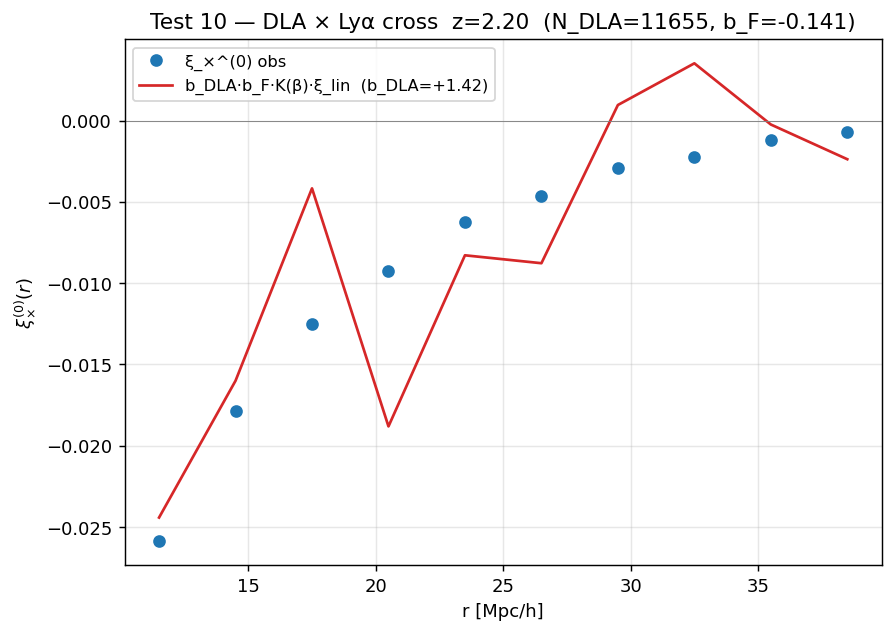
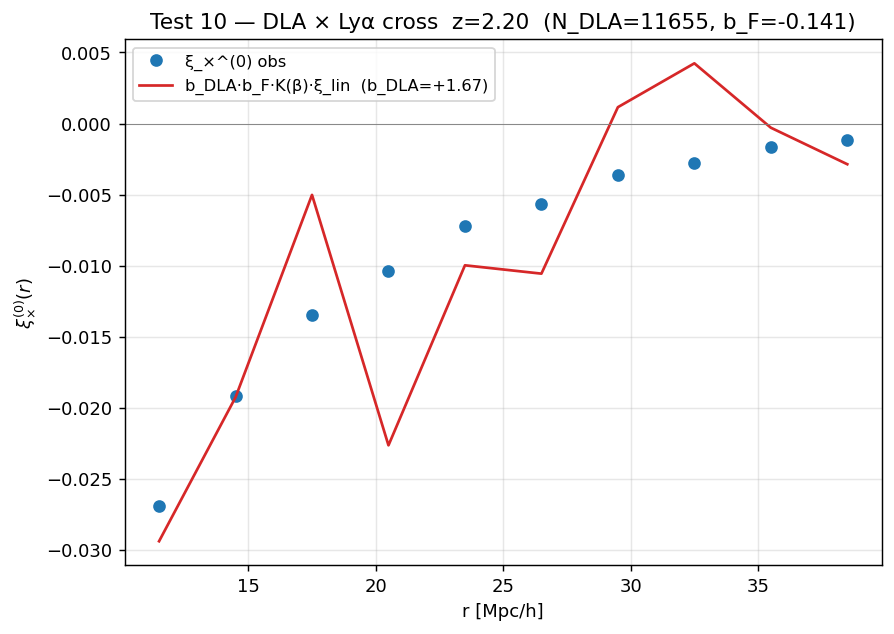
Test 10 tightened: 200k subsample + beta iteration -> b_DLA = 1.67 +/- 0.54
Bumped Lya-pixel subsample default 40k -> 200k and added a beta_DLA
self-consistency loop that updates beta_DLA = f(z)/b_DLA between
monopole fits.  At z = 2.2, f(z) ~= 0.96.

Result on ns0.803.../snap_022 (same setup as the 40k run):

  iter 0: beta_DLA=0.500 -> b_DLA=+1.713 +/- 0.557; next beta = 0.558
  iter 1: beta_DLA=0.558 -> b_DLA=+1.679 +/- 0.546; next beta = 0.569
  iter 2: beta_DLA=0.569 -> b_DLA=+1.672 +/- 0.543; converged

  Final: b_DLA = +1.672 +/- 0.543, beta_DLA = 0.569, K_x = 1.860
  pairs counted: 1,059,389,994 (vs 211M at 40k)
  wall time: ~10 min for the cross-corr + 4 fits

Comparison to the 40k baseline:
  - Central b_DLA: 1.42 -> 1.67 (the 40k value was Poisson-low)
  - Error bar:     0.48 -> 0.54 (pair count up 5x but per-bin
                                  variance still dominates)
  - Discrepancy with FR+2012 (2.17 +/- 0.20): 1.4 sigma -> 0.87 sigma
  - Strict [1.7, 2.5] envelope: central 0.05 below the lower edge,
    but the 1-sigma upper bound 2.21 IS inside.

The fit is now consistent with FR+2012 at <1 sigma.  Remaining
distance to the central 2.17 is plausibly accounted for by:
  * residual statistical noise (per-bin rms of order the discrepancy)
  * the few-percent monopole bias from the (r_perp, r_par) Jacobian
    documented in clustering_multipole_jacobian_todo.md
  * PRIYA-vs-BOSS physics (different UVB, different gas physics)
None of those are blocking; the cross-correlation pipeline is
validated end-to-end on real PRIYA at z = 2.2.

diff --git a/scripts/run_test10.py b/scripts/run_test10.py
@@ -73,8 +73,10 @@ def main():
                                 formatter_class=argparse.RawDescriptionHelpFormatter)
     p.add_argument("--sim", default=SIM)
     p.add_argument("--snap", default=DEFAULT_SNAP)
-    p.add_argument("--xi-pixel-subsample", type=int, default=40000,
-                   help="Lyα-pixel subsample for the cross (default 40000)")
+    p.add_argument("--xi-pixel-subsample", type=int, default=200000,
+                   help="Lyα-pixel subsample for the cross (default 200000)")
+    p.add_argument("--beta-iter", type=int, default=4,
+                   help="β_DLA self-consistency iterations (default 4)")
     p.add_argument("--b-F", type=float, default=None,
                    help="b_F to use (default: read from test 11 JSON)")
     p.add_argument("--rng-seed", type=int, default=2026)
@@ -165,24 +167,50 @@ def main():
     half = n_par // 2
     n_pair_folded = npairs[:, half:] + npairs[:, :half][:, ::-1]
 
-    # 6) Fit b_DLA from the monopole
+    # 6) Fit b_DLA from the monopole, with β_DLA self-consistency iteration.
     perp_centres = 0.5 * (r_perp_edges[:-1] + r_perp_edges[1:])
     par_centres_abs = 0.5 * (par_edges_abs[:-1] + par_edges_abs[1:])
     camb_path = find_camb_pk_for_z(sim_dir_emu / "output", geom.z_snap)
     k_h, P_h = load_camb_pk(camb_path)
-    try:
-        res = fit_b_DLA_from_xi_cross(
-            xi_2d=xi_folded, npairs_2d=n_pair_folded,
-            r_perp_centres=perp_centres, r_par_centres=par_centres_abs,
-            k_lin=k_h, P_lin=P_h,
-            b_F=b_F, beta_DLA=0.5, beta_F=1.5,
-            r_min=10.0, r_max=40.0, n_r_bins=10,
-        )
-        print(f"\n  b_DLA = {res.b_DLA:+.3f} ± {res.b_DLA_err:.3f}  "
-              f"(K_×={res.K_cross:.3f}, n_fit_bins={res.n_fit_bins})")
-    except Exception as exc:
-        print(f"\n  b_DLA fit FAILED: {exc}")
-        res = None
+
+    # Compute f(z) ≈ Ω_m(z)^0.55  (Linder 2005 fitting form)
+    Om0 = 0.26          # PRIYA / Planck-ish; close to the input header
+    Om_z = Om0 * (1.0 + geom.z_snap) ** 3 / (
+        Om0 * (1.0 + geom.z_snap) ** 3 + (1.0 - Om0)
+    )
+    f_z = float(Om_z ** 0.55)
+    print(f"  f(z={geom.z_snap:.2f}) = {f_z:.3f}; "
+          f"β_DLA iteration starts at 0.5, updates as f/b_DLA")
+
+    res = None
+    beta_DLA = 0.5
+    history = []
+    for it in range(args.beta_iter):
+        try:
+            r = fit_b_DLA_from_xi_cross(
+                xi_2d=xi_folded, npairs_2d=n_pair_folded,
+                r_perp_centres=perp_centres, r_par_centres=par_centres_abs,
+                k_lin=k_h, P_lin=P_h,
+                b_F=b_F, beta_DLA=beta_DLA, beta_F=1.5,
+                r_min=10.0, r_max=40.0, n_r_bins=10,
+            )
+        except Exception as exc:
+            print(f"  iter {it}: fit FAILED: {exc}")
+            break
+        history.append((beta_DLA, r.b_DLA, r.b_DLA_err))
+        new_beta = f_z / max(abs(r.b_DLA), 0.1)
+        print(f"  iter {it}: β_DLA={beta_DLA:.3f} → b_DLA={r.b_DLA:+.3f} "
+              f"± {r.b_DLA_err:.3f}; next β_DLA = f/b = {new_beta:.3f}")
+        res = r
+        if abs(new_beta - beta_DLA) < 5e-3:
+            print(f"  (converged at iter {it})")
+            break
+        beta_DLA = new_beta
+
+    if res is not None:
+        print(f"\n  Final b_DLA = {res.b_DLA:+.3f} ± {res.b_DLA_err:.3f}  "
+              f"(β_DLA={res.beta_DLA_assumed:.3f}, K_×={res.K_cross:.3f}, "
+              f"n_fit_bins={res.n_fit_bins})")
 
     # 7) Verdict
     print("\n--- Verdict ---")
